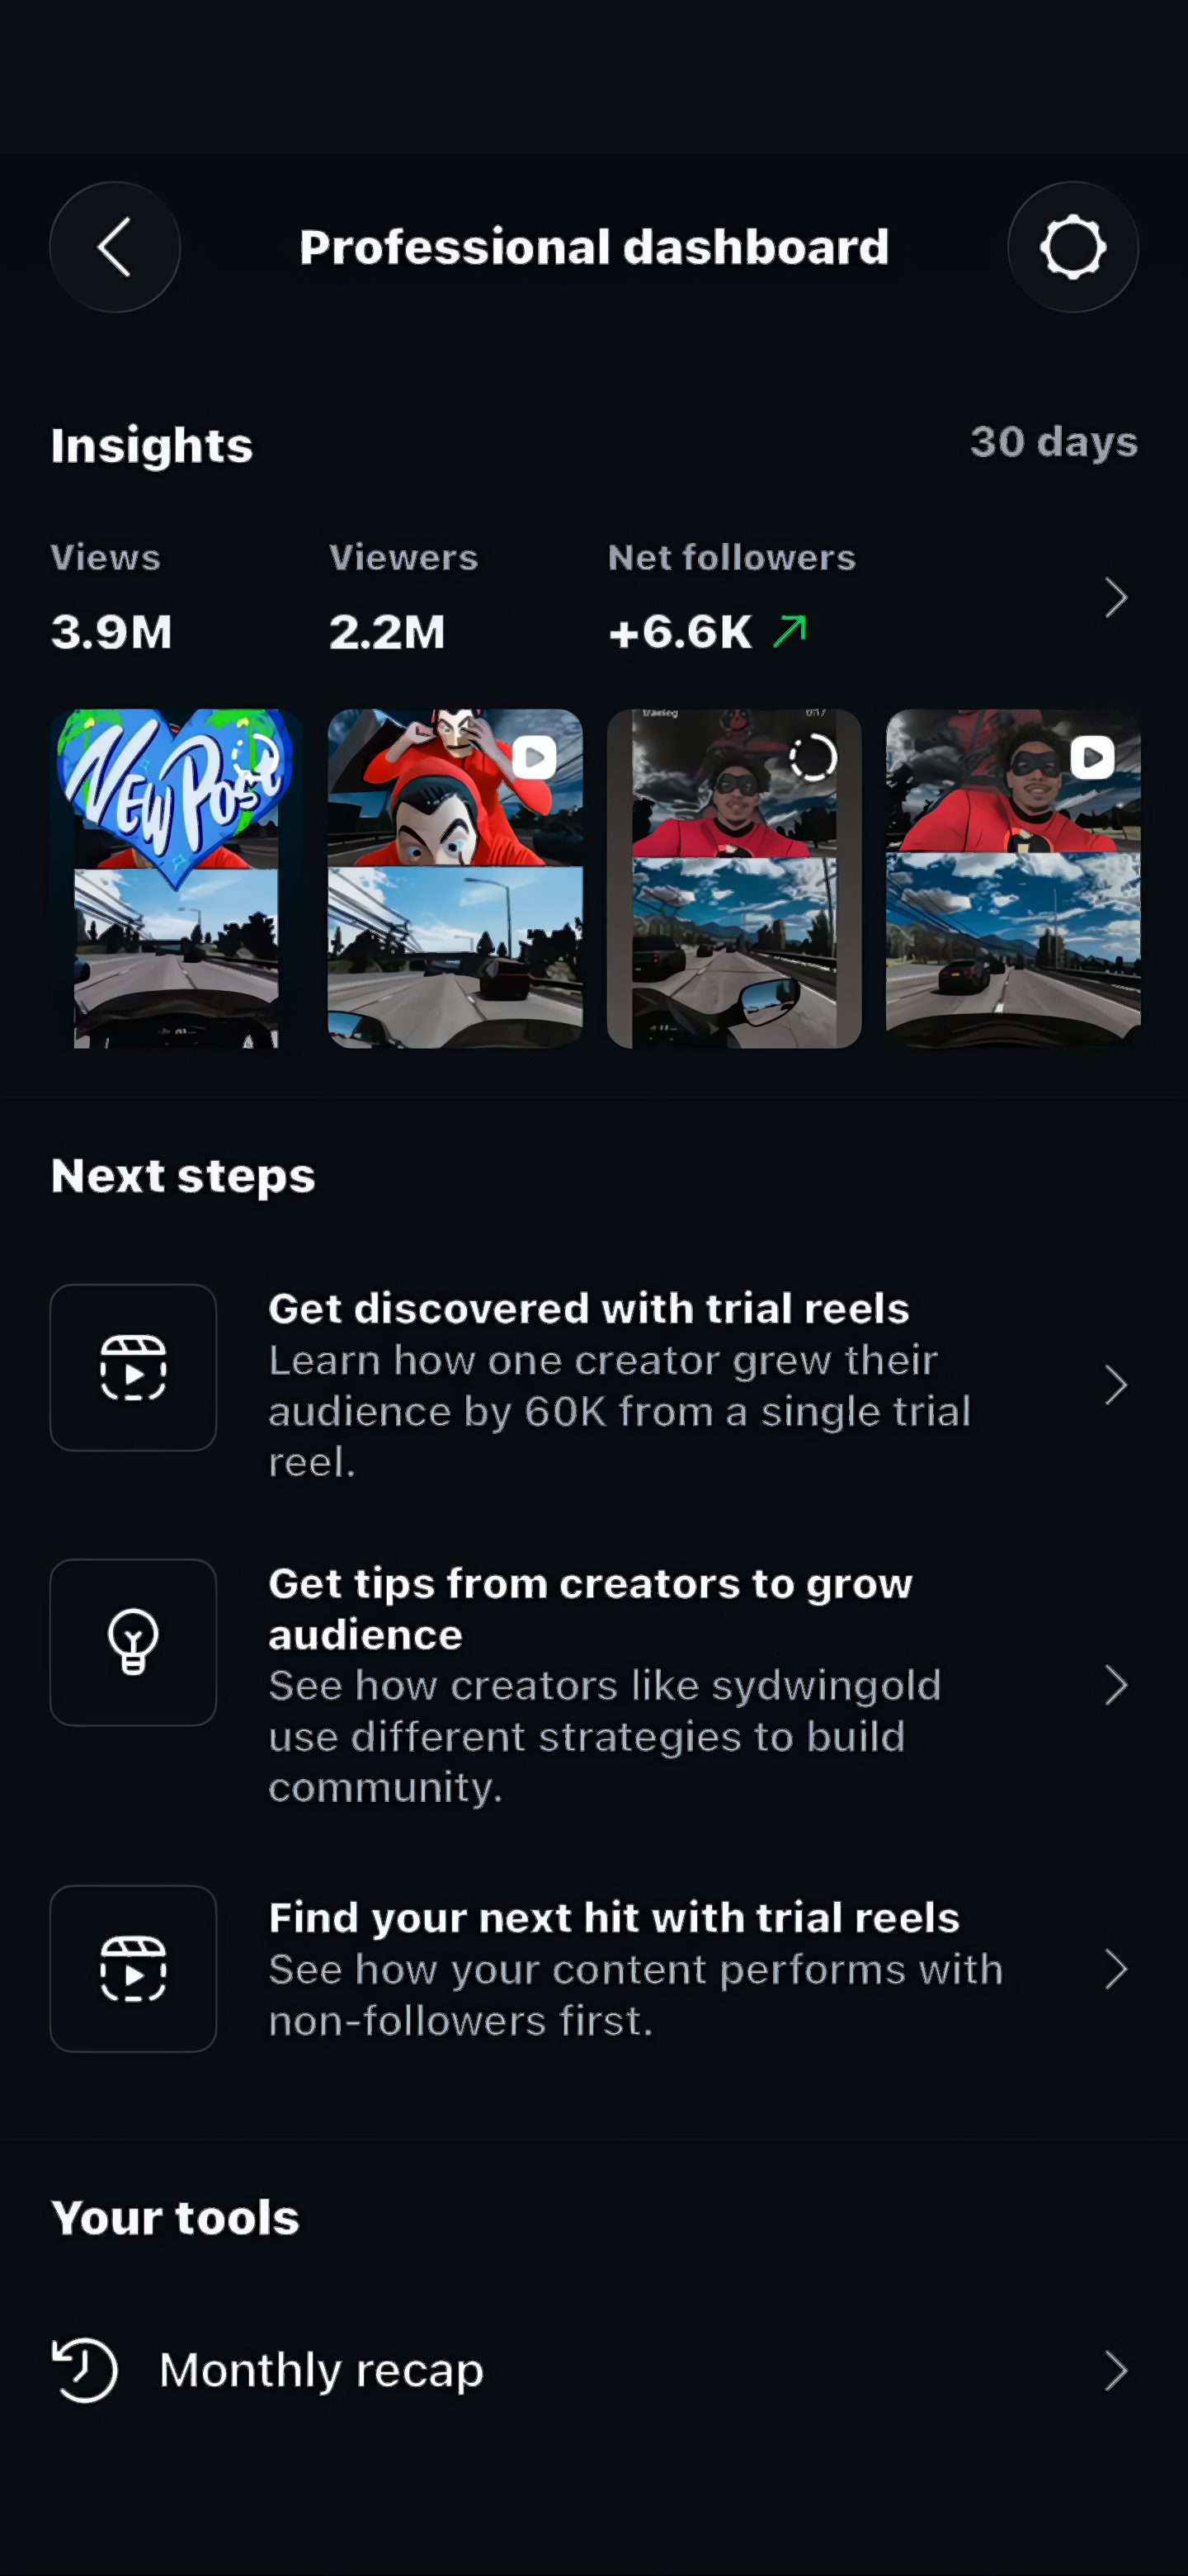
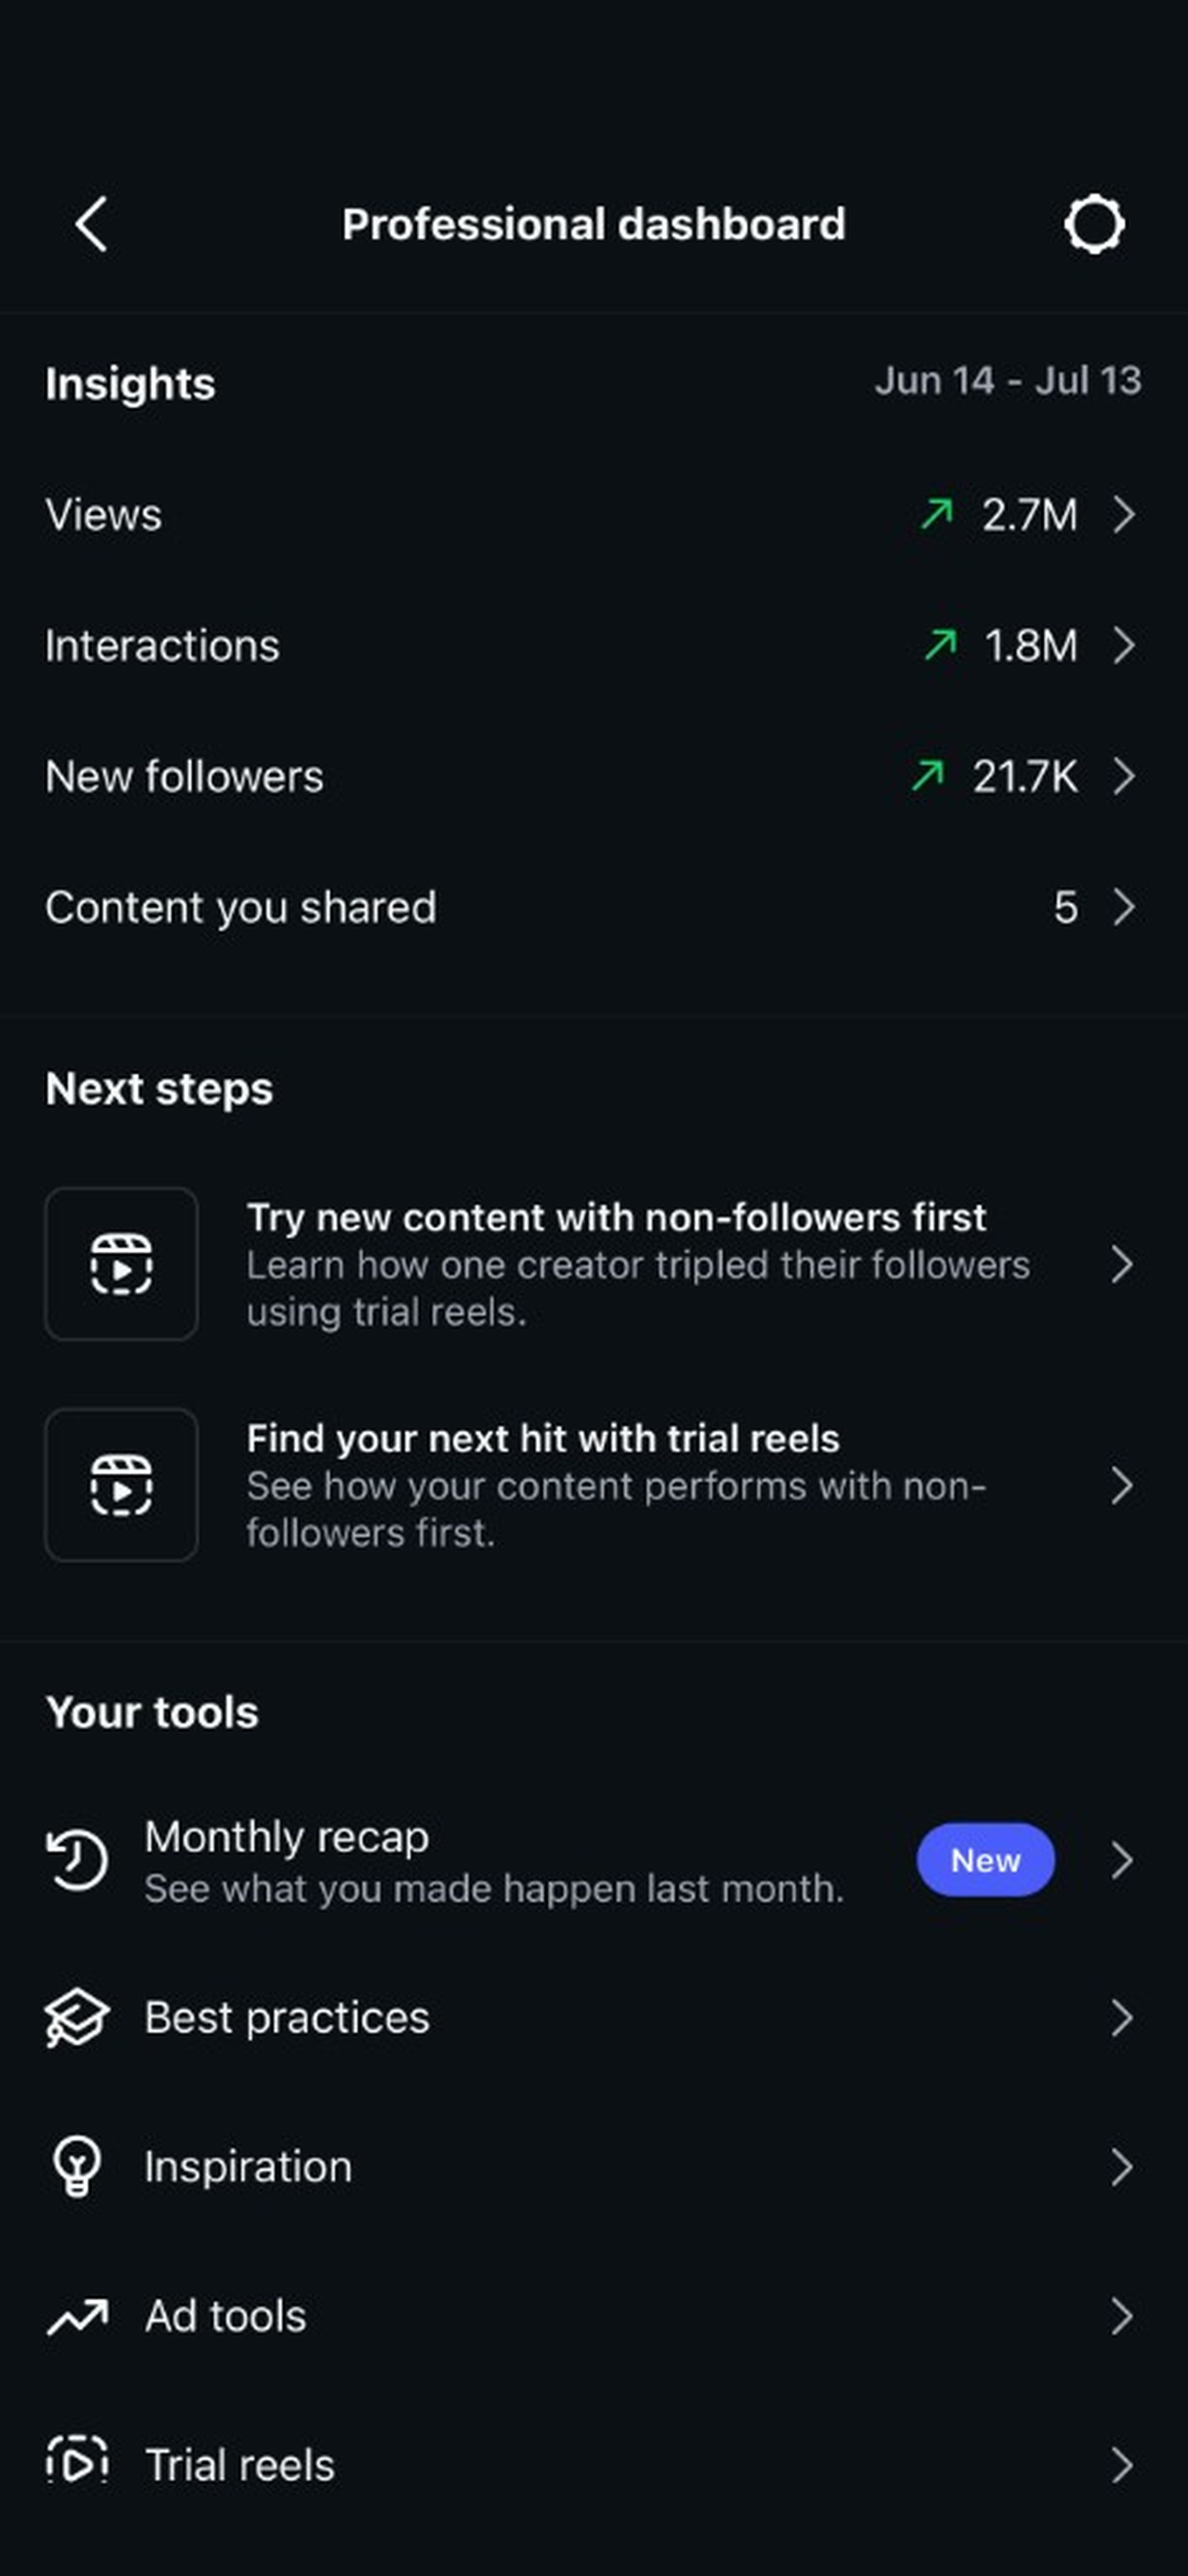
New three-screen flow: updated home, profile, and list-style dashboard screenshots
Swap in the new real screenshots (home feed, profile w/ 199K, professional dashboard in the list style - no video thumbnails). Same flow: home avatar -> profile -> dashboard card -> dashboard; Views row -> existing insights page (other rows inert until their pages arrive). Dropped the skeleton fake-load since the old skeleton showed the retired 4-video layout. v=23.

diff --git a/index.html b/index.html
@@ -7,8 +7,8 @@
 <meta name="mobile-web-app-capable" content="yes">
 <meta name="apple-mobile-web-app-status-bar-style" content="black-translucent">
 <meta name="theme-color" content="#000000">
-<link rel="manifest" href="manifest.json?v=22">
-<link rel="apple-touch-icon" href="icon.png?v=22">
+<link rel="manifest" href="manifest.json?v=23">
+<link rel="apple-touch-icon" href="icon.png?v=23">
 <title>Instagram</title>
 <script>if('serviceWorker' in navigator){navigator.serviceWorker.register('sw.js');}</script>
 <style>
@@ -60,7 +60,7 @@
     <div class="screen active" id="s-home">
       <div id="ver"></div>
       <div class="sheet">
-        <img src="screens/home_chrome_c.png?v=22">
+        <img src="screens/home_chrome_c.png?v=23">
         <div class="hot" style="left:85%;top:90.5%;width:15%;height:6%" onclick="goProfile()"></div>
       </div>
     </div>
@@ -68,28 +68,30 @@
     <!-- PROFILE -->
     <div class="screen navpad" id="s-profile">
       <div class="sheet">
-        <img src="screens/profile_c.png?v=22">
-        <div class="hot" style="left:4%;top:40%;width:92%;height:8%" onclick="goDashboard()"></div>
+        <img src="screens/profile_c.png?v=23">
+        <div class="hot" style="left:3%;top:33%;width:94%;height:7%" onclick="goDashboard()"></div>
       </div>
     </div>
 
     <!-- DASHBOARD -->
     <div class="screen" id="s-dashboard">
       <div class="sheet">
-        <img id="dashImg" src="screens/dash_loaded_c.png?v=22">
-        <div class="hot" style="left:5.6%;top:18%;width:94.4%;height:8%" onclick="goInsights()"></div>
+        <img id="dashImg" src="screens/dash_loaded_c.png?v=23">
+        <!-- Views row -> insights; Interactions / New followers / Content rows get
+             their own pages when those screenshots arrive -->
+        <div class="hot" style="left:0;top:17.8%;width:100%;height:4.8%" onclick="goInsights()"></div>
       </div>
     </div>
 
     <!-- INSIGHTS -->
     <div class="screen" id="s-insights">
       <div id="insHeader">
-        <img id="himg" src="insights_overview_header2.png?v=22">
+        <img id="himg" src="insights_overview_header2.png?v=23">
         <div class="hot" style="left:0;top:65%;width:33.3%;height:35%" onclick="insTab('overview')"></div>
         <div class="hot" style="left:66.7%;top:65%;width:33.3%;height:35%" onclick="insTab('audience')"></div>
       </div>
-      <div id="insContent"><img id="cimg" src="insights_overview_full.png?v=22"></div>
-      <div id="insLoading"><img id="loadImg" src="screens/ins_spinner_c.png?v=22"></div>
+      <div id="insContent"><img id="cimg" src="insights_overview_full.png?v=23"></div>
+      <div id="insLoading"><img id="loadImg" src="screens/ins_spinner_c.png?v=23"></div>
     </div>
 
   </div>
@@ -152,7 +154,7 @@
     lastTouch = now;
   }, { passive: false });
 
-  const ASSET_V = '?v=22';   // bump when any screen image changes (cache-bust mobile)
+  const ASSET_V = '?v=23';   // bump when any screen image changes (cache-bust mobile)
   const el = id => document.getElementById(id);
   { const v = el('ver'); if (v) v.textContent = 'BUILD ' + ASSET_V.replace('?v=', 'v'); }
 
@@ -189,9 +191,9 @@
 
   function goProfile(){ go('s-profile', 'fade'); renderStats(); }
   function goDashboard(){
-    el('dashImg').src = 'screens/dash_skeleton_c.png' + ASSET_V;
+    // dashboard is a plain screenshot now - no skeleton fake-load (old skeleton
+    // showed the retired 4-video layout and would flash a mismatched frame)
     go('s-dashboard', 'slide');
-    setTimeout(() => { el('dashImg').src = 'screens/dash_loaded_c.png' + ASSET_V; }, 850);
   }
   function goInsights(){
     insTab('overview', true);